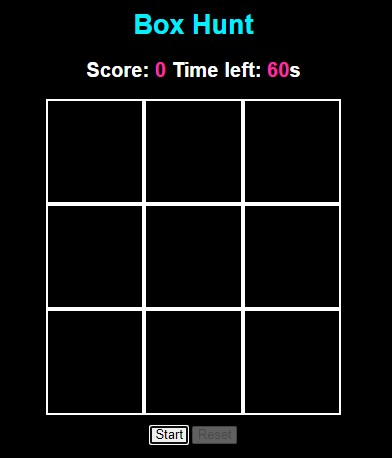
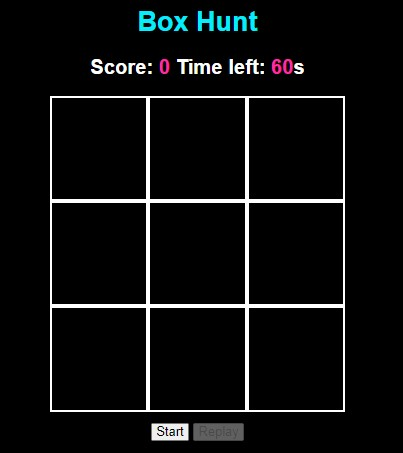
Update for Replay button in testing.md and index.html instructions

Changed region(s): [[0.0918, 0.1236, 0.8878, 0.989], [0.3367, 0.0, 0.6429, 0.0927]]

diff --git a/index.html b/index.html
@@ -57,9 +57,7 @@
         <li><br></li>
         <li><i class="fa-solid fa-stopwatch"></i> Game stops after <strong>60</strong> seconds</li>
         <li><br></li>
-        <li><i class="fa-solid fa-reply"></i> Press <strong>[ Reset ]</strong> to clear the score</li>
-        <li><br></li>
-        <li><i class="fa-solid fa-circle-play"></i> Press <strong>[ Start ]</strong> to play again</li>
+        <li><i class="fa-solid fa-reply"></i> Press <strong>[ Replay ]</strong> to restart game</li>
         <li><br></li>
     </ul>
 

diff --git a/README.md b/README.md
@@ -65,62 +65,81 @@ As this is a brand new site with limited features, so the user stories were take
 
 - View the game design flowchart [here](docs/ux/game-flowchart.pdf), to see how the functions are connected. These functions are:
 
-1. **createGrid()** - 3x3 grid of 9 tiles was created using JavaScript. In order to create each tile:
+1. **initialiseGame()** - sets up the game before play and runs when the *DOMContentLoaded* event is triggered (once the basic HTML document is loaded):
+	- start button is enabled
+	- replay button is disabled
+	- grid generated by calling the createGrid() function
+	- all elements with the class of 'tile' are selected
+	- event listeners for 'click' are added for starting and reseting the game
+
+2. **createGrid()** - 3x3 grid of 9 tiles was created using JavaScript. In order to create each tile:
 	- a 'div' with the class of 'tile' was generated
 	- tile was given a unique id between 0 and 8
 	- the tile was appended to the grid
 
-2. **startGame()** - on selecting the start button, 
-	- game defaults were set
-		- score = 0
-		- time left = 60 seconds
-		- start button was disabled
-		- reset button was enabled
-	- the countdown timer interval was set to 1 second, i.e. the time left decremented every second from 60 seconds.
-	- the random target generation interval for creating the target was set initially at 1 second. This gave the appearance of a target being generated every second.
+3. **startGame()** - on selecting the start button, 
+	- game defaults are set
+		- score is 0
+		- time left is 60 seconds
+		- enableReplay() function is called
+	- countDown() function is called and the countdown timer interval is set to 1 second, i.e. the time left decremented every second from 60 seconds.
+	- randomTarget() function is called and the random target generation interval for creating the target is set initially at 1 second. This gave the appearance of a target being generated every second.
 	- isTargetHit() function called to check if target was hit.
 
-3. **countDown()** - throughout the game, the time left counts down every second until 0 is reached. When 0 is reached, the game ends by calling the gameOver() function.
+4. **enableReplay()**
+	- disables start button
+	- enables replay button
 
-4. **randomTarget()** - this function creates the random target: 
-	- firstly removes any target generated, by removing the associated class of 'target' from the tile
+5. **countDown()** - throughout the game, the time left counts down every second until 0 is reached. When 0 is reached:
+	- clearTheIntervals() function is called to clear the countdown and random target timers
+	- the game ends by calling the gameOver() function.
+
+6. **clearTheIntervals()** - clears the game's intervals for:
+	 - countdown timer
+	 - random target timer
+
+7. **randomTarget()** - this function creates the random target: 
+	- firstly removes any target generated, by removing the associated class of 'target' from the tile, otherwise the board will be filled with coloured targets - only one is required
 	- generates a random integer between 0 and 8
 	- assigns the tile with the id equal to this random integer, as the new target by giving it the class of 'target'
 	- a potential hit postion is now assigned to the target tile
 
-5. **isTargetHit()** - this function checks if the target has been clicked on by a mouse or touched via a touchscreen:
-	- add an event listener for 'click' - this checks for either mouse or touch selection
+8. **isTargetHit()** - this function checks if the target has been clicked on by a mouse or touched via a touchscreen:
+	- adds an event listener for 'click' for each tile - this checks for either mouse or touch selection
 	- checks if tile selected is the correct hit position of the target. If yes:
-		- the random target generation interval is cleared
-		- the score is incremented and displayed on the screen
-		- the hit position is cleared to stop multiple successful hits on the one position (thought it is possible to randomly generate the same number twice)
-		- a new random target generation interval, less than the previous one is assigned - this gives the effect of a faster moving target
+		- onTileClicked() function is called
 	- if the target has not been hit, the score and the random target generation interval stay the same i.e. the target will keep moving at the current speed
 
-6. **resetGame()** - on selecting the reset button:
-	- all intervals are cleared -  the game stops running
+9. **onTileClicked** - because the target has been hit:
+	- the random target generation interval is cleared
+	- the score is incremented and displayed on the screen
+	- the hit position is cleared to stop multiple successful hits on the one position (thought it is possible to randomly generate the same position twice in succession)
+	- a new random target generation interval, less than the previous one is assigned - this gives the effect of a faster moving target
+
+10. **resetGame()** - on selecting the replay button:
+	- clearTheIntervals() function is called
 	- screen displays for score and time left are set back to 0 and 60 seconds respectively
 	- the removeTarget() function is called 
-	- start button is enabled
-	- reset button is disabled
+	- if 'Game Over!' is visible, it is removed 
+	- startGame() function is called to automatically restart the game - this is a common feature of such games
 
-7. **gameOver()** - is called when the time left is 0
-	- 'Game Over!' text is generated
-	- removetarget() function is called
-	- start button is disabled
-	- reset button is enabled, in order to force the user to reset the game before replaying
-
-8. **removeTarget()** - removes the event listener and ability to restart the game by randomly clicking on the grid by:
+11. **removeTarget()** - removes the event listener for each tile and the ability to restart the game by randomly clicking on the grid, by:
 	- removing the class of 'target' from any tile
 	- making sure any potential hit position is cleared
 	- removing the event listener, so that clicking on the grid results on no action
 
+12. **gameOver()** - is called when the time left is 0
+	- 'Game Over!' text is generated
+	- removetarget() function is called
+	- enableReplay() function is called
+
+
 #### Colour Scheme
 
 - White (#ffffff) grid on a black (#000000) background are used for the game board.
-- Electric blue (#04eeff) for the moving target, main h1 heading and icons.
-- Persian rose (#fe2da3) for other headings.
-- Lavender floral (#a381ce) for the footer icons.
+- Electric Blue (#04eeff) for the moving target, main h1 heading and icons.
+- Persian Rose (#fe2da3) for other headings.
+- Lavender Floral (#a381ce) for the footer icons.
 
 <h2 align="left"><img src="docs/ux/palette.jpg"></h2>
 
@@ -168,7 +187,7 @@ This page features:
 - the 'Time Left' in the current game, which counts down from 60 seconds on clicking the 'Start' button
 - the game board of 9 tiles, one of which will initially have a randomly generated coloured target tile every 1 second. It will seem like the target is moving position every second, but time period between each random generation will decrease with each increase of the score - the target will speed up
 - 'Start' button to start play and generate the moving target
-- 'Reset' button to return the game back to it's initial start
+- 'Restart' button which resets the game before immediately restarting it
 - 'Instructions' to how to play the game
 - contact area where users can email in their game idea
 - footer with a link to a GitHub account

diff --git a/TESTING.md b/TESTING.md
@@ -205,7 +205,7 @@ On loading the site, the user will be taken to index.html, the home page. Mobile
     - initial values for *Score: 0* and *Time Left: 60s*. Words are in White and numbers in Persian Rose
     - 3x3 Black game board with White grid lines
     - active *Start* button (default HTML button without any extra styling)
-    - inactive *Reset* button (default greyed-out HTML button without any extra styling)
+    - inactive *Replay* button (default greyed-out HTML button without any extra styling)
 
 <h2 align="left"><img src="docs/pictures/board.jpg"></h2>
 
@@ -243,7 +243,7 @@ When the user selects an active area of the screen, the following results will b
         - cause the *Time left* value to count down from 60 seconds
         - cause a randomly generated Electric Blue square target to appear, initially every 1 second 
         - disable the *Start* button and change the fill colour from White to Grey
-        - enable the *Reset* button and change the fill colour from Grey to White
+        - enable the *Replay* button and change the fill colour from Grey to White
 
     2. Clicking or tapping on the Electric Blue moving target will
         - cause the *Score* to increment
@@ -256,15 +256,14 @@ When the user selects an active area of the screen, the following results will b
 
     <h2 align="left"><img src="docs/testing/manual/game-over.jpg"></h2>
 
-    4. Clicking or tapping on the *Reset* button will
-        - remove the target if present
+    4. Clicking or tapping on the *Replay* button will
+        - remove the target
         - change the *Score* value to 0
         - change the *Time left* value to 60
-        - disable the *Reset* button and change the fill colour from White to Grey
-        - enable the *Start* button and change the fill colour from Grey to White
         - remove the *Game Over!* text above the grid, if the *Time left* value is 0
+        - immediately start the game again
 
-    <h2 align="left"><img src="docs/pictures/board.jpg"></h2>
+    <h2 align="left"><img src="docs/testing/manual/game-restart.jpg"></h2>
 
 * On the *Email Us* form section: 
 
